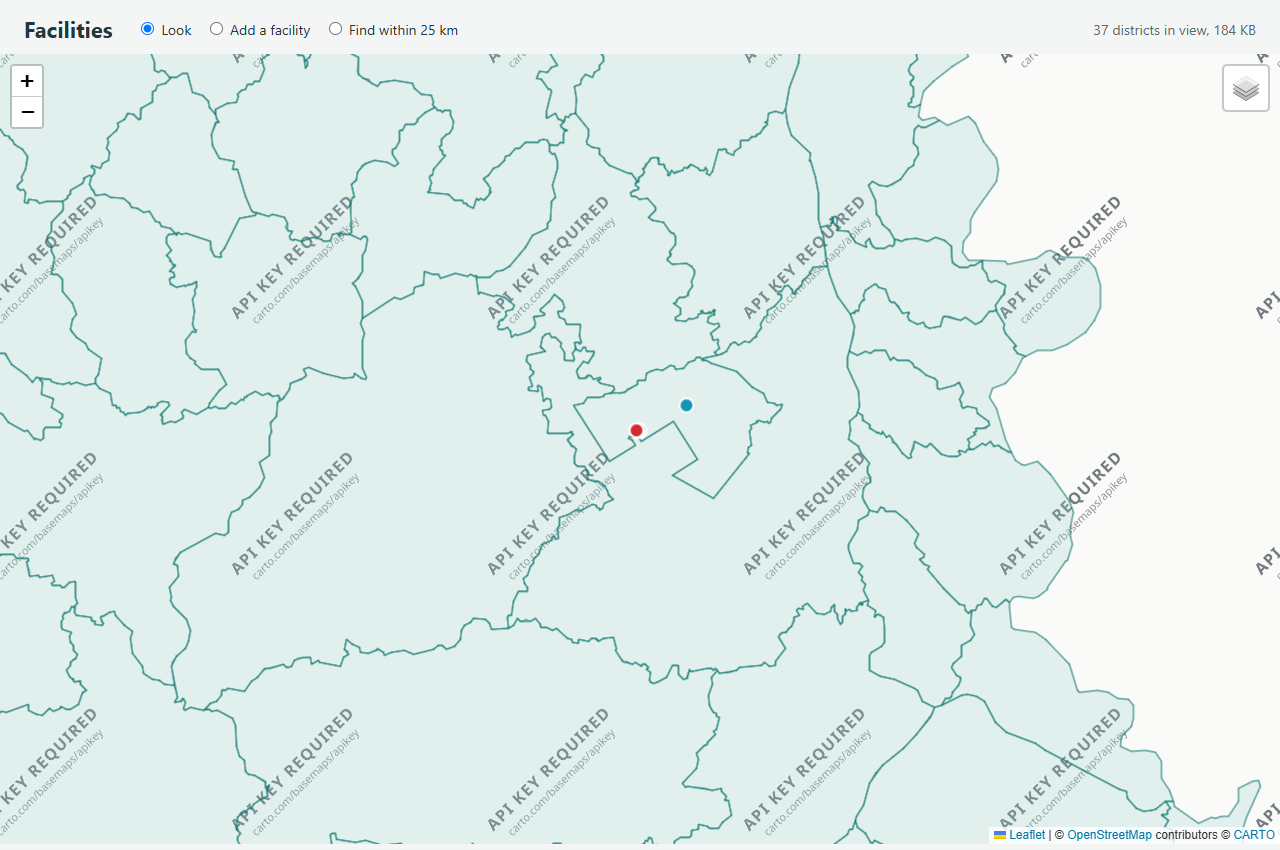
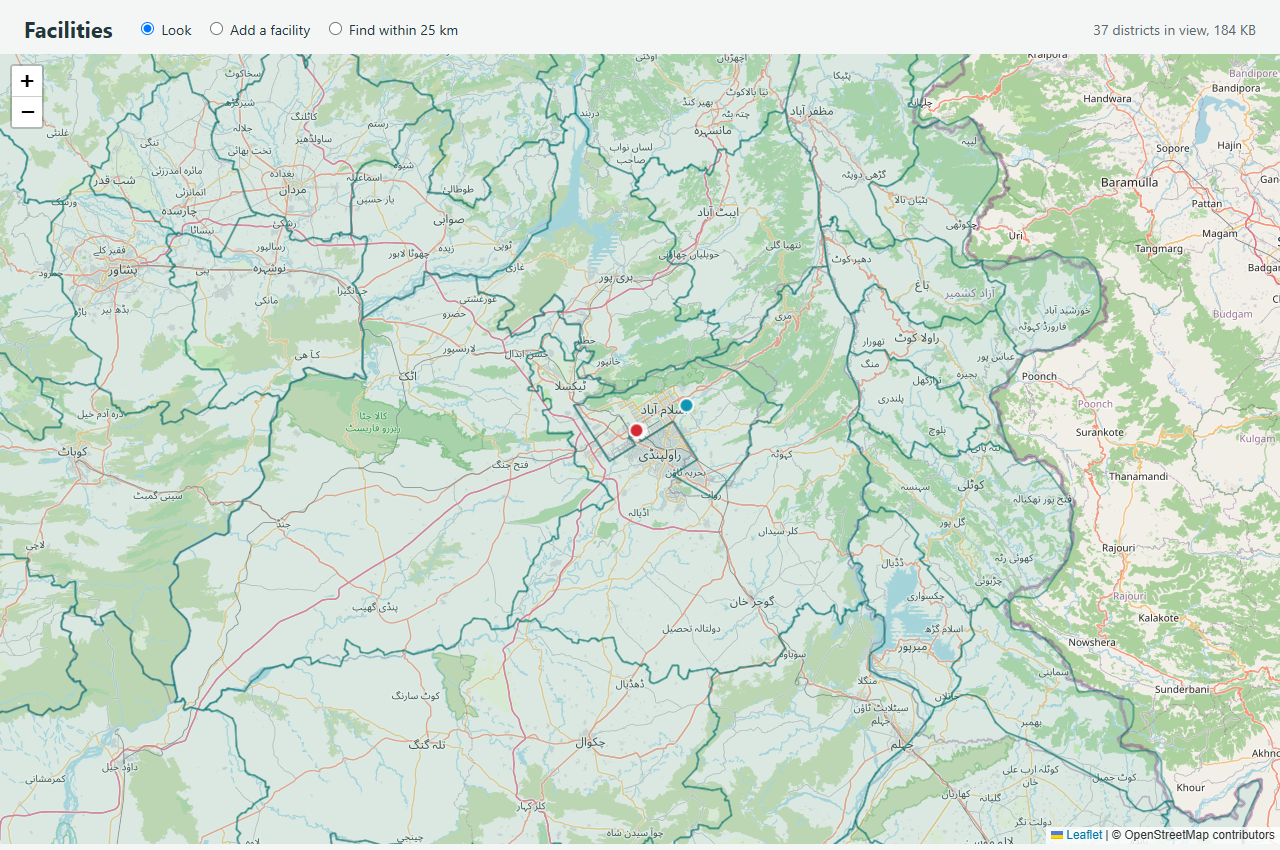
Use standard OpenStreetMap tile layer with origin referrer policy and update screenshots

diff --git a/lab5/districts/templates/districts/map.html b/lab5/districts/templates/districts/map.html
@@ -3,6 +3,7 @@
 <head>
   <meta charset="utf-8">
   <meta name="viewport" content="width=device-width, initial-scale=1">
+  <meta name="referrer" content="origin">
   <title>Facilities and districts</title>
   <link rel="stylesheet" href="https://unpkg.com/leaflet@1.9.4/dist/leaflet.css">
   <style>
@@ -44,29 +45,11 @@
       minZoom: 5
     }).setView([33.6, 73.0], 9);
 
-    // Base map layers (CARTO Positron as reliable default, Esri and OSM available)
-    const cartoLayer = L.tileLayer('https://{s}.basemaps.cartocdn.com/light_all/{z}/{x}/{y}{r}.png', {
-      subdomains: 'abcd',
+    L.tileLayer('https://tile.openstreetmap.org/{z}/{x}/{y}.png', {
       maxZoom: 19,
-      attribution: '&copy; <a href="https://www.openstreetmap.org/copyright">OpenStreetMap</a> contributors &copy; <a href="https://carto.com/attributions">CARTO</a>'
+      attribution: '&copy; OpenStreetMap contributors',
+      referrerPolicy: 'origin'
     }).addTo(map);
-
-    const esriLayer = L.tileLayer('https://server.arcgisonline.com/ArcGIS/rest/services/World_Topo_Map/MapServer/tile/{z}/{y}/{x}', {
-      maxZoom: 18,
-      attribution: 'Tiles &copy; Esri — World Topographic Map'
-    });
-
-    const osmLayer = L.tileLayer('https://{s}.tile.openstreetmap.org/{z}/{x}/{y}.png', {
-      subdomains: ['a', 'b', 'c'],
-      maxZoom: 19,
-      attribution: '&copy; OpenStreetMap contributors'
-    });
-
-    L.control.layers({
-      "CARTO Positron (OSM)": cartoLayer,
-      "Esri Topo Map": esriLayer,
-      "OpenStreetMap": osmLayer
-    }, null, { position: 'topright' }).addTo(map);
 
     const status = document.getElementById('status');
     const districtLayer = L.geoJSON(null, {
